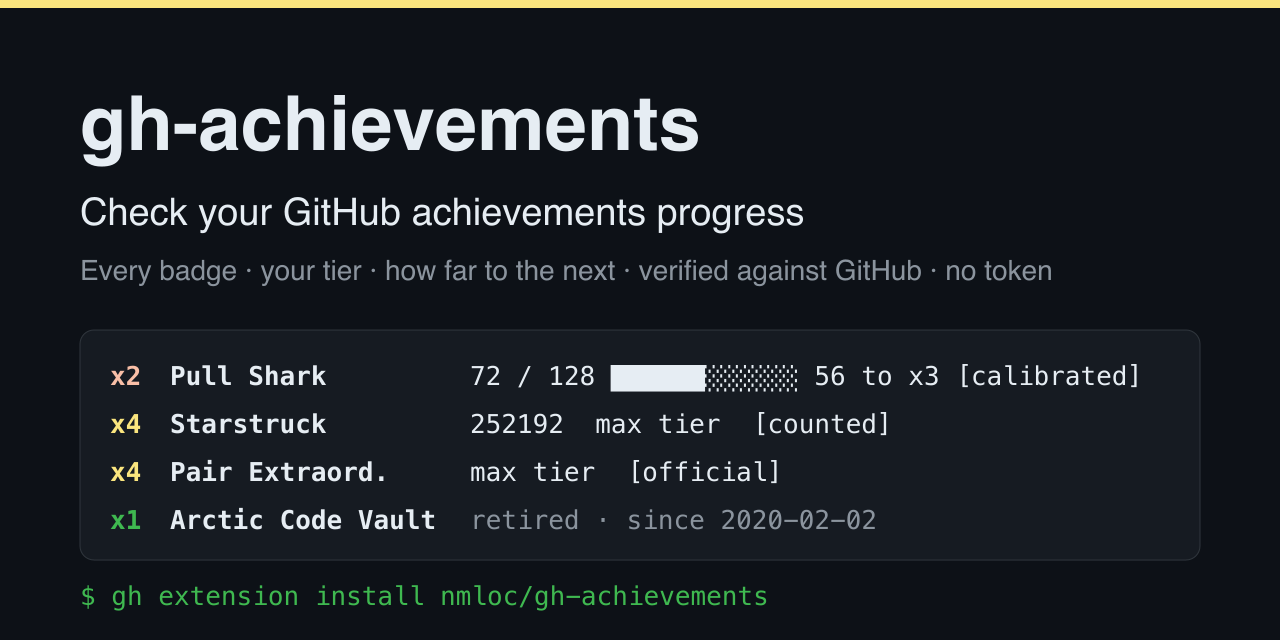
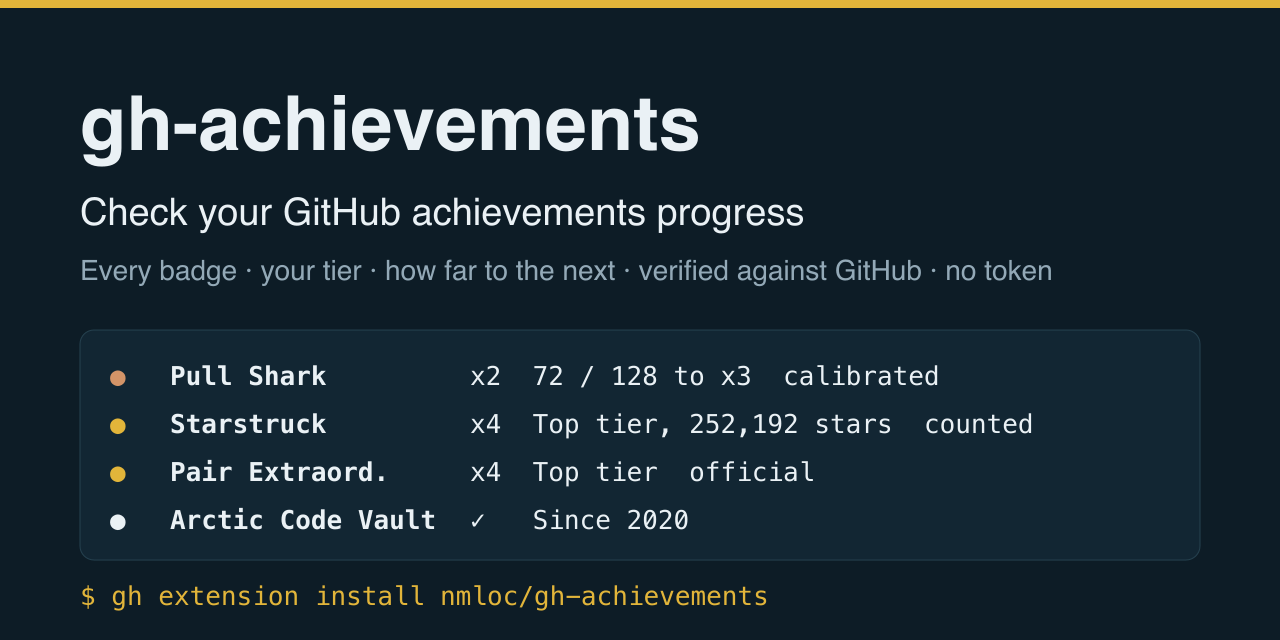
feat(docs): demo, social card and button in the site palette

diff --git a/cmd/gendocs/svg.go b/cmd/gendocs/svg.go
@@ -10,42 +10,26 @@ import (
 
 var reANSI = regexp.MustCompile("\x1b\\[([0-9;]*)m")
 
-// GitHub's own tier label colours, plus a dark terminal palette.
+// The site's dark palette: muted text, bronze, silver and gold metals.
 var ansiFill = map[string]string{
-	"2": "#8b949e", "32": "#3fb950",
-	"38;5;216": "#f9bfa7", "38;5;252": "#e1e4e4", "38;5;221": "#fae57e",
-}
-
-// demoSections are the report sections the README demo keeps; the rest are summarised
-// in one line, so the image stays readable.
-var demoSections = map[string]bool{"EARNABLE": true, "RETIRED": true}
-
-// sectionWords start the report's section headings (render.Text).
-var sectionWords = map[string]bool{
-	"EARNABLE": true, "DISABLED": true, "RETIRED": true, "INTERNAL": true, "NEW": true, "HIGHLIGHTS": true,
+	"2": "#93a9b7", "38;5;173": "#d39468", "38;5;250": "#c7d0d6", "38;5;178": "#e2b53a",
 }
 
 func plain(s string) string { return reANSI.ReplaceAllString(s, "") }
 
+// keepDemoLines keeps the whole report except the legend line and trailing blank
+// lines; the new layout already folds the archive into one line.
 func keepDemoLines(out string) []string {
 	var kept []string
-	keep := true
 	for _, line := range strings.Split(strings.TrimRight(out, "\n"), "\n") {
-		p := strings.TrimSpace(plain(line))
-		if f := strings.Fields(p); len(f) > 0 && sectionWords[f[0]] {
-			keep = demoSections[f[0]]
+		if strings.HasPrefix(strings.TrimSpace(plain(line)), "official =") {
+			continue
 		}
-		if strings.HasPrefix(p, "official =") {
-			keep = false
-		}
-		if keep {
-			kept = append(kept, line)
-		}
+		kept = append(kept, line)
 	}
-	for len(kept) > 0 && plain(kept[len(kept)-1]) == "" {
+	for len(kept) > 0 && strings.TrimSpace(plain(kept[len(kept)-1])) == "" {
 		kept = kept[:len(kept)-1]
 	}
-	kept = append(kept, "", "  \x1b[2m… plus disabled and internal badges, and profile highlights\x1b[0m")
 	return kept
 }
 
@@ -69,10 +53,10 @@ func terminalSVG(out, _ string) []byte {
 	var b strings.Builder
 	fmt.Fprintf(&b, `<svg xmlns="http://www.w3.org/2000/svg" width="%d" height="%d" viewBox="0 0 %d %d" role="img" aria-labelledby="t">`+"\n", width, height, width, height)
 	b.WriteString(`<title id="t">gh achievements torvalds: terminal output</title>` + "\n")
-	fmt.Fprintf(&b, `<rect width="%d" height="%d" rx="10" fill="#0d1117"/>`+"\n", width, height)
+	fmt.Fprintf(&b, `<rect width="%d" height="%d" rx="10" fill="#0d1c26"/>`+"\n", width, height)
 	b.WriteString(`<circle cx="20" cy="20" r="6" fill="#ff5f56"/><circle cx="40" cy="20" r="6" fill="#ffbd2e"/><circle cx="60" cy="20" r="6" fill="#27c93f"/>` + "\n")
-	fmt.Fprintf(&b, `<text x="%d" y="24" fill="#8b949e" font-family="ui-monospace,SFMono-Regular,Menlo,Consolas,monospace" font-size="13" text-anchor="middle">gh achievements torvalds</text>`+"\n", width/2)
-	fmt.Fprintf(&b, `<g font-family="ui-monospace,SFMono-Regular,Menlo,Consolas,'Liberation Mono',monospace" font-size="%d" fill="#e6edf3">`+"\n", fontSize)
+	fmt.Fprintf(&b, `<text x="%d" y="24" fill="#93a9b7" font-family="ui-monospace,SFMono-Regular,Menlo,Consolas,monospace" font-size="13" text-anchor="middle">gh achievements torvalds</text>`+"\n", width/2)
+	fmt.Fprintf(&b, `<g font-family="ui-monospace,SFMono-Regular,Menlo,Consolas,'Liberation Mono',monospace" font-size="%d" fill="#eaf1f5">`+"\n", fontSize)
 	for i, line := range lines {
 		fmt.Fprintf(&b, `<text x="%d" y="%d">%s</text>`+"\n", padX, top+i*lineH, spans(line))
 	}
@@ -128,25 +112,26 @@ func socialSVG() []byte {
 	const sans = `font-family="DejaVu Sans,Helvetica,Arial,sans-serif"`
 	var b strings.Builder
 	b.WriteString(`<svg xmlns="http://www.w3.org/2000/svg" width="1280" height="640" viewBox="0 0 1280 640">` + "\n")
-	b.WriteString(`<rect width="1280" height="640" fill="#0d1117"/>` + "\n")
-	b.WriteString(`<rect x="0" y="0" width="1280" height="8" fill="#fae57e"/>` + "\n")
-	fmt.Fprintf(&b, `<text x="80" y="150" %s font-size="76" font-weight="700" fill="#e6edf3">gh-achievements</text>`+"\n", sans)
-	fmt.Fprintf(&b, `<text x="80" y="225" %s font-size="38" fill="#e6edf3">Check your GitHub achievements progress</text>`+"\n", sans)
-	fmt.Fprintf(&b, `<text x="80" y="280" %s font-size="28" fill="#8b949e">Every badge · your tier · how far to the next · verified against GitHub · no token</text>`+"\n", sans)
-	b.WriteString(`<rect x="80" y="330" width="1120" height="230" rx="14" fill="#161b22" stroke="#30363d"/>` + "\n")
-	rows := []struct{ mark, fill, name, rest, restFill string }{
-		{"x2", "#f9bfa7", "Pull Shark      ", "72 / 128 ██████░░░░░░ 56 to x3 [calibrated]", "#e6edf3"},
-		{"x4", "#fae57e", "Starstruck      ", "252192  max tier  [counted]", "#e6edf3"},
-		{"x4", "#fae57e", "Pair Extraord.  ", "max tier  [official]", "#e6edf3"},
-		{"x1", "#3fb950", "Arctic Code Vault", " retired · since 2020-02-02", "#8b949e"},
+	b.WriteString(`<rect width="1280" height="640" fill="#0d1c26"/>` + "\n")
+	b.WriteString(`<rect x="0" y="0" width="1280" height="8" fill="#e2b53a"/>` + "\n")
+	fmt.Fprintf(&b, `<text x="80" y="150" %s font-size="76" font-weight="700" fill="#eaf1f5">gh-achievements</text>`+"\n", sans)
+	fmt.Fprintf(&b, `<text x="80" y="225" %s font-size="38" fill="#eaf1f5">Check your GitHub achievements progress</text>`+"\n", sans)
+	fmt.Fprintf(&b, `<text x="80" y="280" %s font-size="28" fill="#93a9b7">Every badge · your tier · how far to the next · verified against GitHub · no token</text>`+"\n", sans)
+	b.WriteString(`<rect x="80" y="330" width="1120" height="230" rx="14" fill="#122633" stroke="#25414f"/>` + "\n")
+	const ink = "#eaf1f5"
+	rows := []struct{ mark, fill, name, rest string }{
+		{"●", "#d39468", "Pull Shark", "x2  72 / 128 to x3  calibrated"},
+		{"●", "#e2b53a", "Starstruck", "x4  Top tier, 252,192 stars  counted"},
+		{"●", "#e2b53a", "Pair Extraord.", "x4  Top tier  official"},
+		{"●", ink, "Arctic Code Vault", "✓   Since 2020"},
 	}
 	for i, r := range rows {
 		y := 385 + i*48
-		fmt.Fprintf(&b, `<text x="110" y="%d" %s font-size="26" fill="%s" font-weight="700">%s</text>`+"\n", y, mono, r.fill, r.mark)
-		fmt.Fprintf(&b, `<text x="170" y="%d" %s font-size="26" fill="#e6edf3" font-weight="700">%s</text>`+"\n", y, mono, html.EscapeString(r.name))
-		fmt.Fprintf(&b, `<text x="470" y="%d" %s font-size="26" fill="%s">%s</text>`+"\n", y, mono, r.restFill, strings.ReplaceAll(html.EscapeString(r.rest), " ", "\u00a0"))
+		fmt.Fprintf(&b, `<text x="110" y="%d" %s font-size="26" fill="%s">%s</text>`+"\n", y, mono, r.fill, r.mark)
+		fmt.Fprintf(&b, `<text x="170" y="%d" %s font-size="26" fill="%s" font-weight="700">%s</text>`+"\n", y, mono, ink, html.EscapeString(r.name))
+		fmt.Fprintf(&b, `<text x="470" y="%d" %s font-size="26" fill="%s">%s</text>`+"\n", y, mono, ink, strings.ReplaceAll(html.EscapeString(r.rest), " ", "\u00a0"))
 	}
-	fmt.Fprintf(&b, `<text x="80" y="605" %s font-size="26" fill="#3fb950">$ gh extension install nmloc/gh-achievements</text>`+"\n", mono)
+	fmt.Fprintf(&b, `<text x="80" y="605" %s font-size="26" fill="#e2b53a">$ gh extension install nmloc/gh-achievements</text>`+"\n", mono)
 	b.WriteString("</svg>\n")
 	return []byte(b.String())
 }
@@ -158,15 +143,14 @@ func checkButtonSVG() []byte {
 	var b strings.Builder
 	b.WriteString(`<svg xmlns="http://www.w3.org/2000/svg" width="520" height="84" viewBox="0 0 520 84" role="img" aria-labelledby="t">` + "\n")
 	b.WriteString(`<title id="t">Check your GitHub achievements: no install, sign in to include private work</title>` + "\n")
-	b.WriteString(`<defs><linearGradient id="g" x1="0" y1="0" x2="0" y2="1"><stop offset="0" stop-color="#2ea043"/><stop offset="1" stop-color="#1a7f37"/></linearGradient></defs>` + "\n")
-	b.WriteString(`<rect x="1" y="1" width="518" height="82" rx="14" fill="url(#g)" stroke="#116329" stroke-width="2"/>` + "\n")
+	b.WriteString(`<rect x="1" y="1" width="518" height="82" rx="14" fill="#142430" stroke="#e2b53a" stroke-width="2"/>` + "\n")
 	// A trophy: cup, two handles, stem and base.
-	b.WriteString(`<g transform="translate(26 18)" fill="#fae57e" stroke="#fae57e" stroke-width="3" stroke-linejoin="round">` +
+	b.WriteString(`<g transform="translate(26 18)" fill="#e2b53a" stroke="#e2b53a" stroke-width="3" stroke-linejoin="round">` +
 		`<path d="M10 4h28v14a14 14 0 0 1-28 0z"/>` +
 		`<path d="M10 9H4v4a8 8 0 0 0 7 8" fill="none"/><path d="M38 9h6v4a8 8 0 0 1-7 8" fill="none"/>` +
 		`<path d="M21 32h6v7h-6z"/><path d="M14 41h20v5H14z"/></g>` + "\n")
-	fmt.Fprintf(&b, `<text x="90" y="40" %s font-size="25" font-weight="700" fill="#ffffff">Check your GitHub achievements →</text>`+"\n", sans)
-	fmt.Fprintf(&b, `<text x="90" y="64" %s font-size="15" fill="#dafbe1">No install · sign in with GitHub to include private work</text>`+"\n", sans)
+	fmt.Fprintf(&b, `<text x="90" y="40" %s font-size="25" font-weight="700" fill="#eaf1f5">Check your GitHub achievements →</text>`+"\n", sans)
+	fmt.Fprintf(&b, `<text x="90" y="64" %s font-size="15" fill="#c7d0d6">No install · sign in with GitHub to include private work</text>`+"\n", sans)
 	b.WriteString("</svg>\n")
 	return []byte(b.String())
 }

diff --git a/cmd/gendocs/readme_test.go b/cmd/gendocs/readme_test.go
@@ -1,11 +1,15 @@
 package main
 
 import (
+	"bytes"
 	"encoding/xml"
 	"strings"
 	"testing"
 
 	"github.com/nmloc/gh-achievements/internal/catalog"
+	"github.com/nmloc/gh-achievements/internal/fixtures"
+	"github.com/nmloc/gh-achievements/internal/render"
+	"github.com/nmloc/gh-achievements/internal/report"
 	"github.com/nmloc/gh-achievements/internal/webui"
 )
 
@@ -73,5 +77,44 @@ func TestCheckButtonSVG_isWellFormedAndSaysWhatItDoes(t *testing.T) {
 	}
 	if strings.Contains(string(svg), "<image") || strings.Contains(string(svg), "href=") {
 		t.Error("README SVGs must be self-contained: GitHub does not load external resources inside them")
+	}
+}
+
+func TestTerminalSVG_usesTheSitePaletteAndTheNewLayout(t *testing.T) {
+	demo, err := report.Build("torvalds", fixtures.Official{}, fixtures.TorvaldsDemo())
+	if err != nil {
+		t.Fatal(err)
+	}
+	var colored bytes.Buffer
+	render.Text(&colored, demo, render.Options{Color: true})
+	svg := string(terminalSVG(colored.String(), ""))
+	for _, want := range []string{`fill="#0d1c26"`, `fill="#e2b53a"`, `fill="#d39468"`, `fill="#93a9b7"`,
+		"On display", "Still to collect", "72\u00a0/\u00a0128\u00a0to\u00a0x3", "The\u00a0archive"} {
+		if !strings.Contains(svg, want) {
+			t.Errorf("demo SVG lacks %q", want)
+		}
+	}
+	for _, gone := range []string{"#0d1117", "#3fb950", "official\u00a0=\u00a0GitHub", "official = GitHub"} {
+		if strings.Contains(svg, gone) {
+			t.Errorf("demo SVG still has %q", gone)
+		}
+	}
+}
+
+func TestSVGs_matchTheSite(t *testing.T) {
+	for name, svg := range map[string]string{"social": string(socialSVG()), "button": string(checkButtonSVG())} {
+		for _, want := range []string{"#e2b53a"} {
+			if !strings.Contains(svg, want) {
+				t.Errorf("%s SVG lacks the site gold %s", name, want)
+			}
+		}
+		for _, gone := range []string{"#2ea043", "#1a7f37", "#0d1117", "#fae57e"} {
+			if strings.Contains(svg, gone) {
+				t.Errorf("%s SVG still uses the old colour %s", name, gone)
+			}
+		}
+	}
+	if !strings.Contains(string(socialSVG()), "72\u00a0/\u00a0128\u00a0to\u00a0x3") { // the SVG keeps columns with no-break spaces
+		t.Error("the social card should show the new progress wording")
 	}
 }
